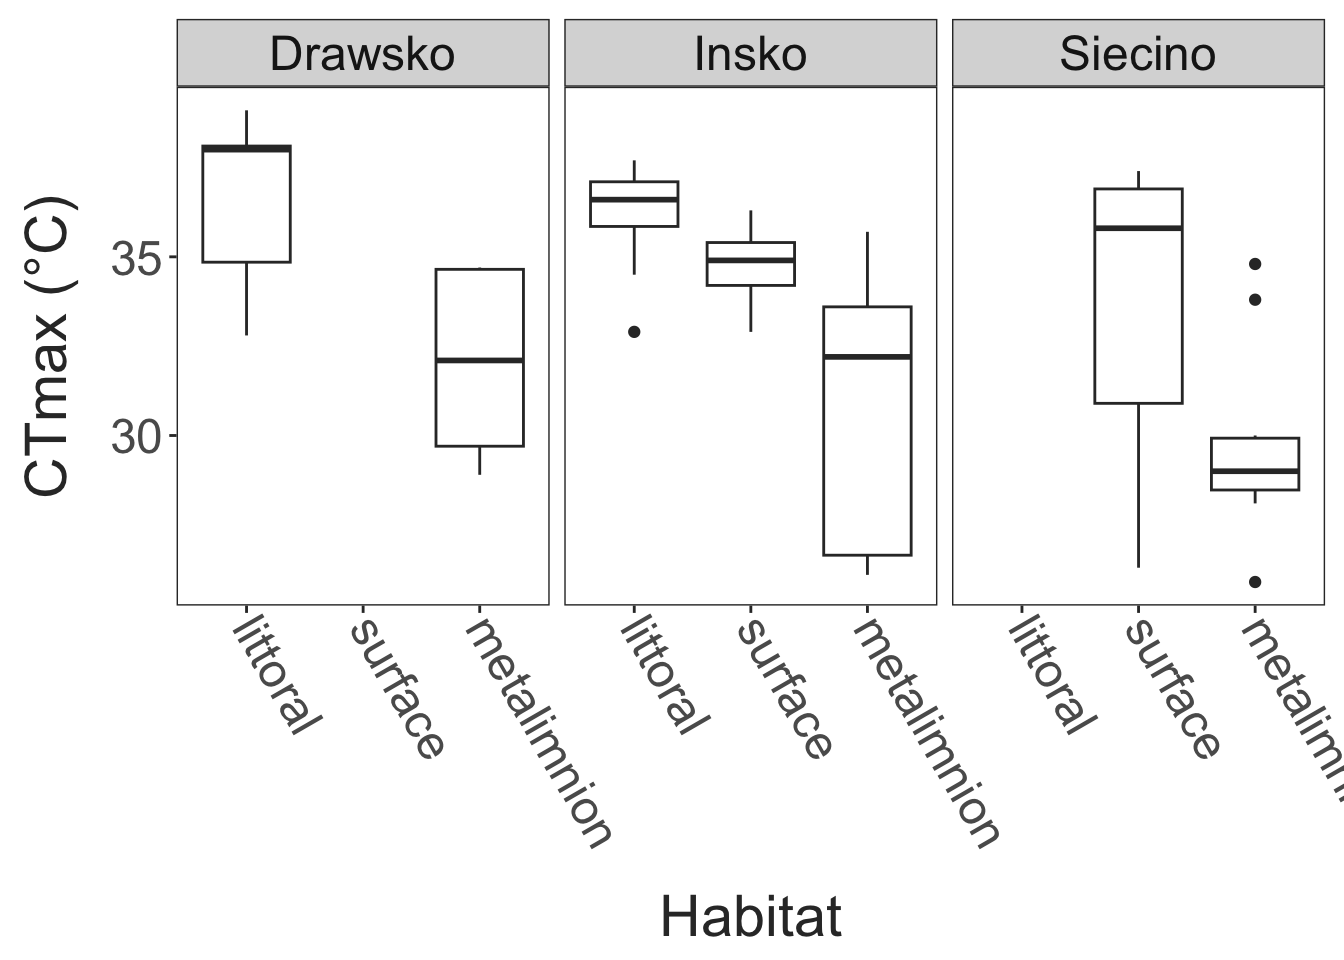
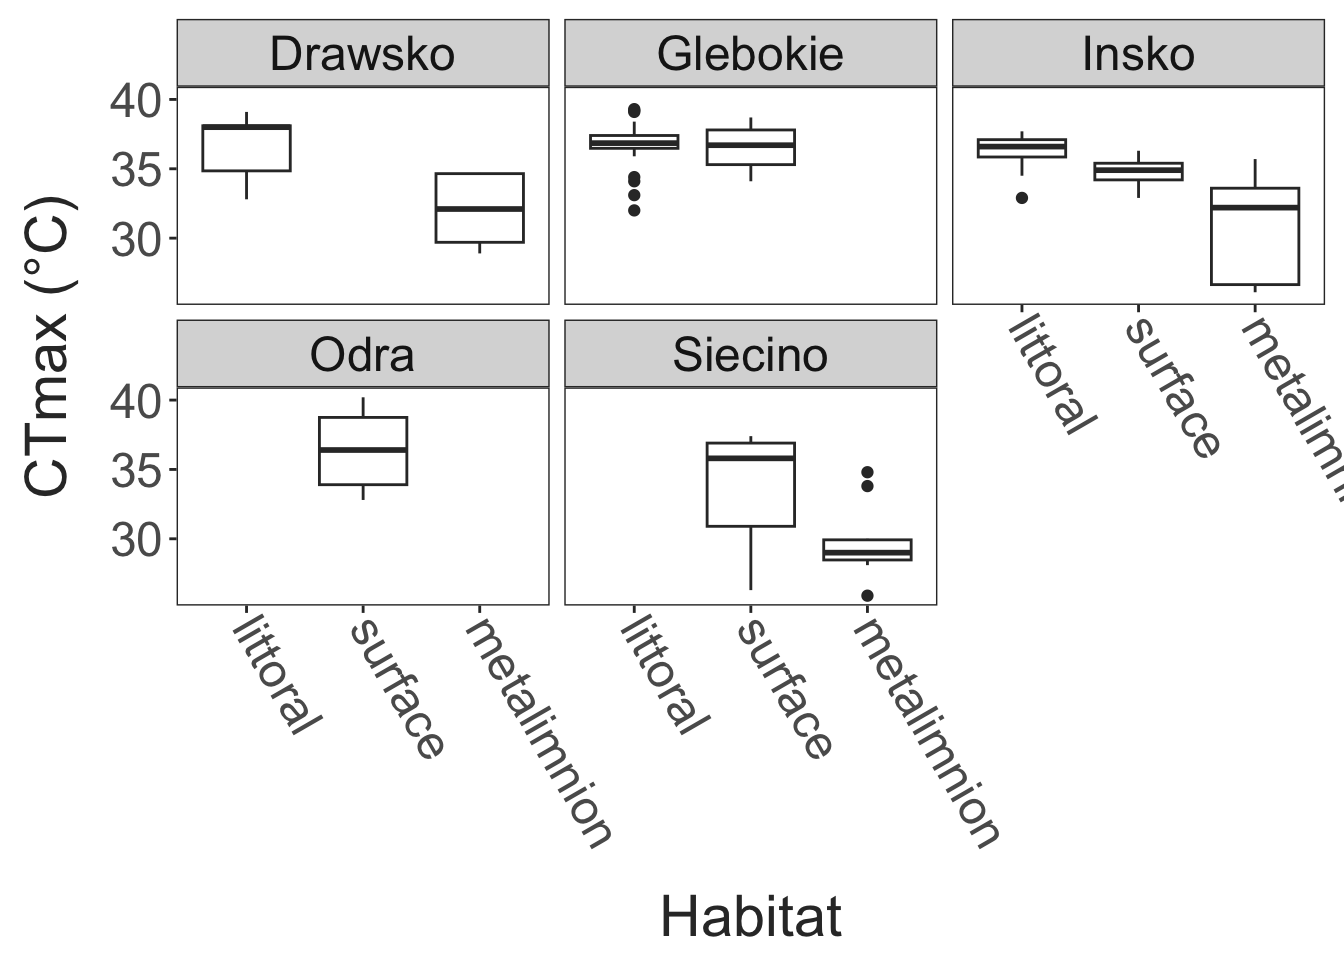
Updating data analysis

diff --git a/docs/data_summary.html b/docs/data_summary.html
@@ -154,7 +154,7 @@ ul.task-list li input[type="checkbox"] {
 </div>
 </div>
 </div>
-<p>Copepod collections were made from 3 sites from 2025-07-21 to 2025-07-23. A total of 88 CTmax measurements were made.</p>
+<p>Copepod collections were made from 5 sites from 2025-07-21 to 2025-07-26. A total of 208 CTmax measurements were made, ranging from 25.9 to 40.2°C.</p>
 <p>In general, cyclopoids had higher CTmax values than calanoid copepods.</p>
 <div class="cell" data-layout-align="center">
 <div class="cell-output-display">
@@ -191,6 +191,47 @@ ul.task-list li input[type="checkbox"] {
 <div class="quarto-figure quarto-figure-center">
 <figure class="figure">
 <p><img src="data_summary_files/figure-html/unnamed-chunk-6-1.png" class="img-fluid quarto-figure quarto-figure-center figure-img" width="672"></p>
+</figure>
+</div>
+</div>
+</div>
+<div class="cell" data-layout-align="center">
+<div class="cell-output-display">
+<table class="table table-sm table-striped small">
+<thead>
+<tr class="header">
+<th style="text-align: left;"></th>
+<th style="text-align: right;">Chisq</th>
+<th style="text-align: right;">Df</th>
+<th style="text-align: right;">Pr(&gt;Chisq)</th>
+</tr>
+</thead>
+<tbody>
+<tr class="odd">
+<td style="text-align: left;">collection_temp</td>
+<td style="text-align: right;">4.601428</td>
+<td style="text-align: right;">1</td>
+<td style="text-align: right;">0.0319453</td>
+</tr>
+<tr class="even">
+<td style="text-align: left;">genus</td>
+<td style="text-align: right;">232.859593</td>
+<td style="text-align: right;">9</td>
+<td style="text-align: right;">0.0000000</td>
+</tr>
+<tr class="odd">
+<td style="text-align: left;">habitat</td>
+<td style="text-align: right;">5.026243</td>
+<td style="text-align: right;">2</td>
+<td style="text-align: right;">0.0810150</td>
+</tr>
+</tbody>
+</table>
+</div>
+<div class="cell-output-display">
+<div class="quarto-figure quarto-figure-center">
+<figure class="figure">
+<p><img src="data_summary_files/figure-html/unnamed-chunk-8-1.png" class="img-fluid quarto-figure quarto-figure-center figure-img" width="672"></p>
 </figure>
 </div>
 </div>
